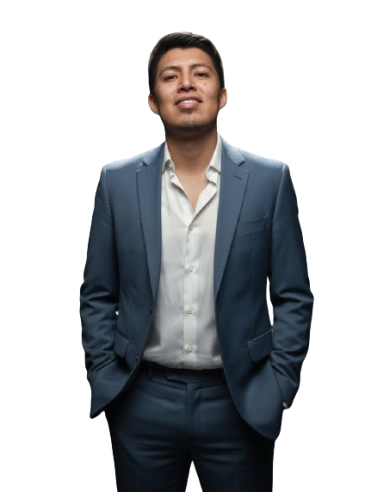
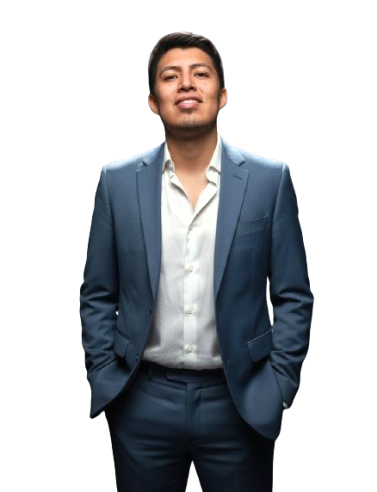
cositas nuevas

Changed region(s): [[0.2626, 0.2744, 0.7586, 0.7622], [0.4085, 0.0915, 0.6127, 0.2744]]

diff --git a/perfil.js b/perfil.js
@@ -1,0 +1,39 @@
+document.addEventListener('DOMContentLoaded', function() {
+    // 1. Lista de rutas de tus fotos de perfil
+    const fotosDePerfil = [
+        'img/fer2.png',
+        'img/fer3.png', // Tu foto original también puede ser parte de la rotación
+        'img/fer4.png',
+        // ¡Añade aquí todas las rutas a tus fotos de perfil que quieres que roten!
+    ];
+
+    // 2. Selecciona una ruta aleatoria de la lista
+    const randomIndex = Math.floor(Math.random() * fotosDePerfil.length);
+    const selectedPhoto = fotosDePerfil[randomIndex];
+
+    // 3. Encuentra la etiqueta <img> de tu foto de perfil usando el ID
+    const fotoPerfilElement = document.getElementById('foto-perfil-aleatoria');
+
+    // 4. Cambia el atributo 'src' de la imagen por la foto seleccionada aleatoriamente
+    if (fotoPerfilElement) { // Esto verifica que el elemento exista antes de intentar cambiarlo
+        fotoPerfilElement.src = selectedPhoto;
+        // Opcional: También podrías querer actualizar el 'alt' text si cada foto tiene una descripción diferente
+        // fotoPerfilElement.alt = "Nueva imagen de perfil de Fernando Hidalgo"; 
+    }
+
+    // --- Opcional: Si quieres que el favicon (el iconito de la pestaña) también cambie ---
+    // 1. Encuentra el elemento link para el favicon o crea uno si no existe
+   
+   // let faviconElement = document.querySelector('link[rel="icon"]');
+   // if (!faviconElement) {
+   //     faviconElement = document.createElement('link');
+   //     faviconElement.rel = 'icon';
+   //     document.head.appendChild(faviconElement);
+  //}
+
+    // 2. Asigna la ruta de la foto seleccionada al favicon
+    //    Asegúrate de que tus fotos de perfil sean adecuadas como favicons (pequeñas y claras).
+    //    Si son fotos de cuerpo completo, quizás no se vean bien como favicon.
+    //    Podrías tener una lista de favicons específicos si tus fotos son muy grandes.
+    faviconElement.href = selectedPhoto;
+});

diff --git a/index.html b/index.html
@@ -4,6 +4,7 @@
     <meta charset="UTF-8">
     <meta name="viewport" content="width=device-width, initial-scale=1.0">
     <title>Fernando Hidalgo</title>
+    <link rel="icon" type="image/png" href="/img/fh logo 2.png">
     <link href="https://fonts.googleapis.com/css2?family=Roboto:wght@400;500;700&display=swap" rel="stylesheet">
     <link href="https://cdnjs.cloudflare.com/ajax/libs/font-awesome/6.0.0-beta3/css/all.min.css" rel="stylesheet">
     <link rel="stylesheet" href="style.css">
@@ -30,6 +31,7 @@
              </div>
         </div>
     </header>
+     <script src="perfil.js"></script>
 
     <section class="hero">
         <div class="container hero-content">
@@ -45,7 +47,7 @@
                 </div>
             </div>
             <div class="hero-image">
-                <img src="img/fer1.png" alt="Imagen de perfil de Fernando Hidalgo">
+                <img id="foto-perfil-aleatoria" src="img/fer2.png" alt="Imagen de perfil de Fernando Hidalgo">
             </div>
         </div>
     </section>
